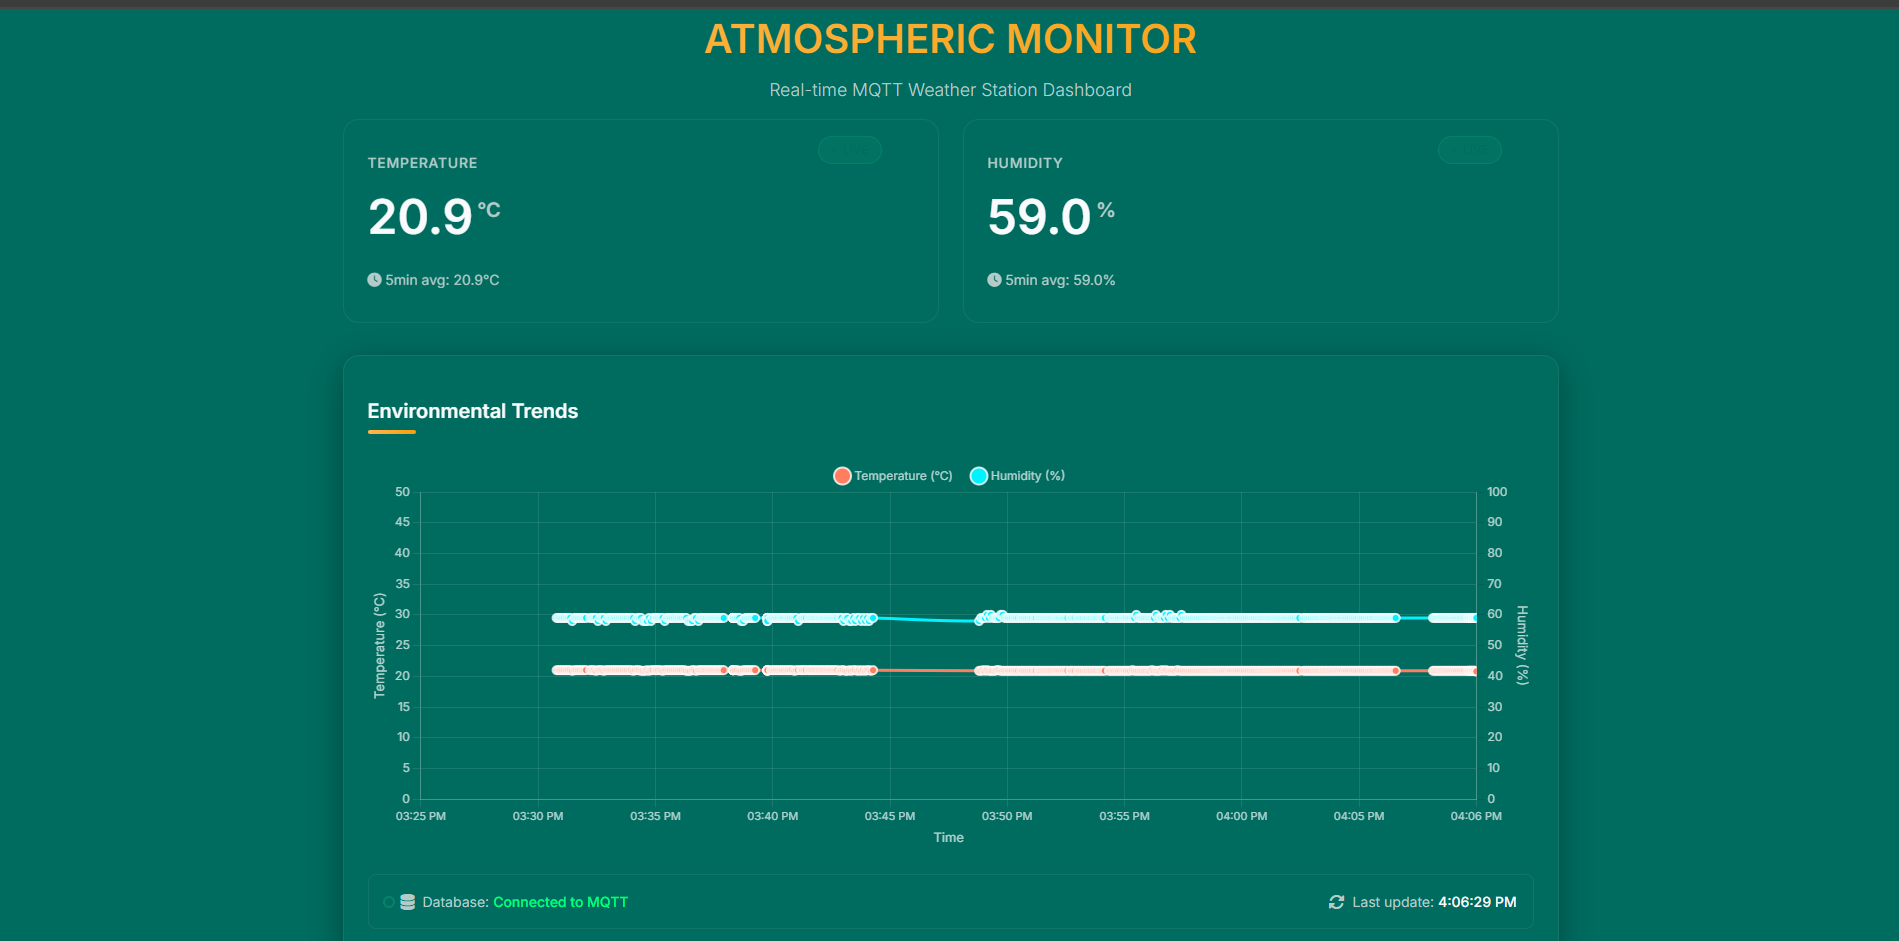
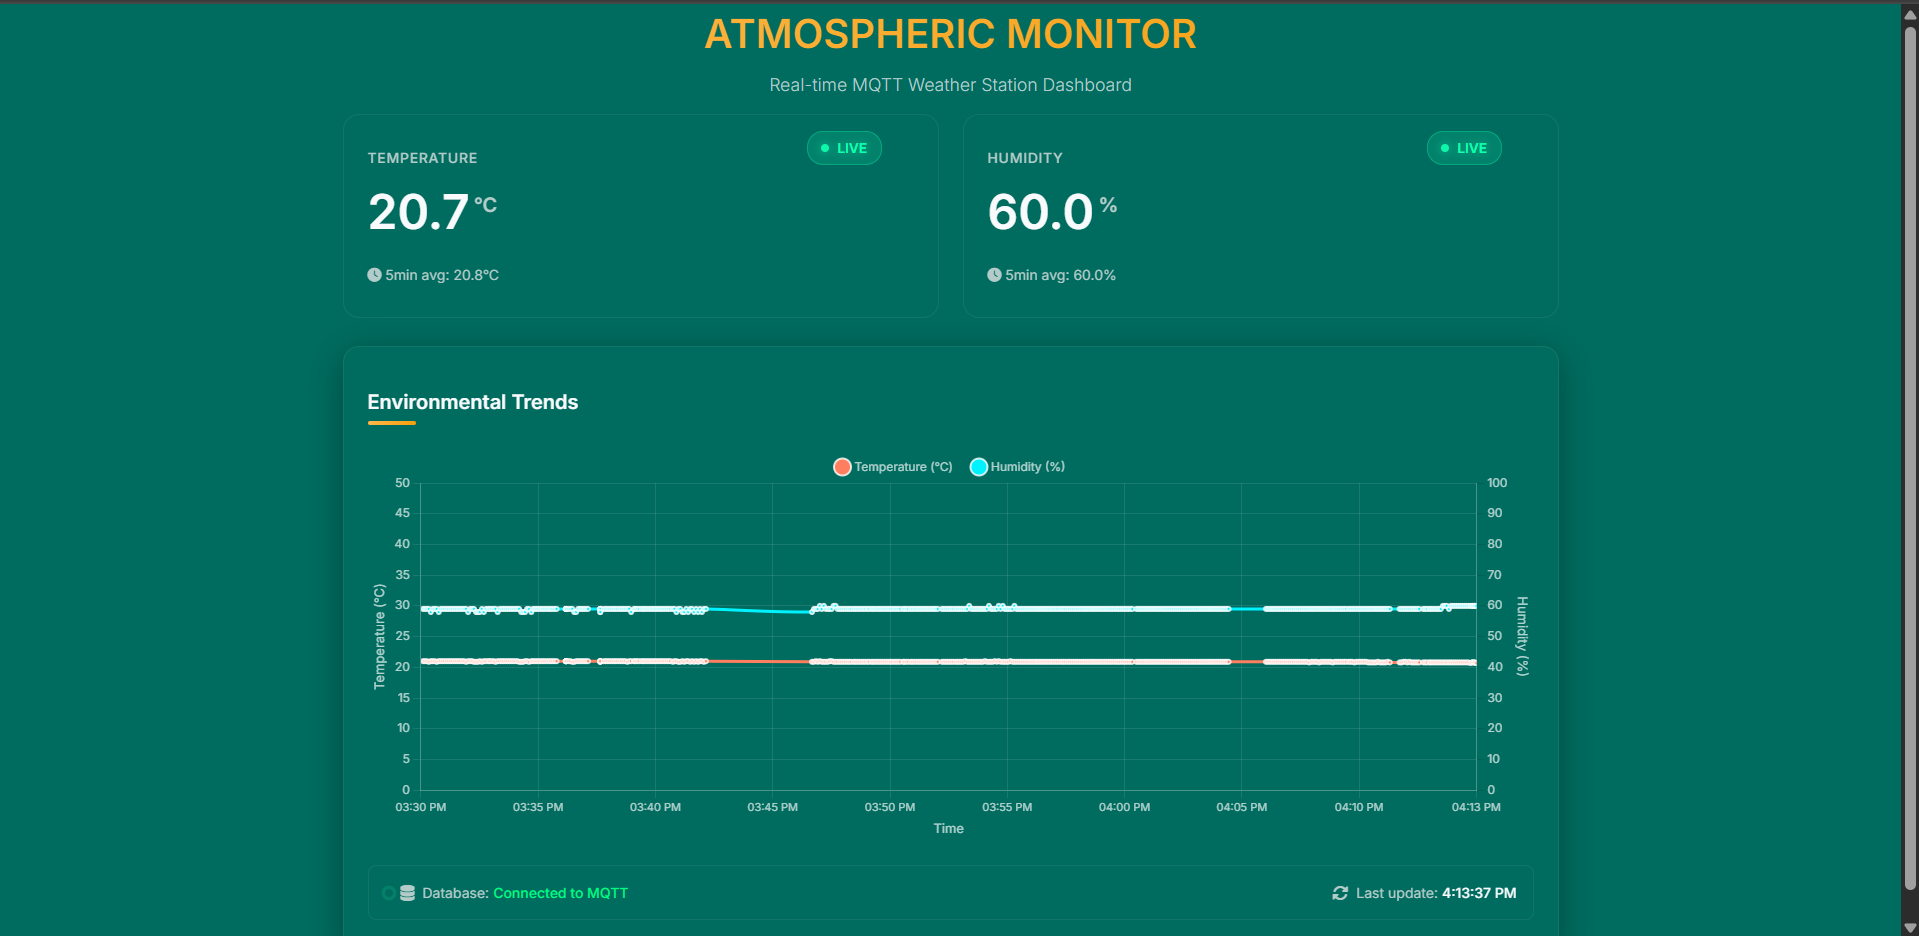
responsiveness

diff --git a/public/index.html b/public/index.html
@@ -40,7 +40,7 @@
         }
 
         .dashboard {
-            max-width: 1280px;
+            max-width: 70%;
             margin: 0 auto;
             padding: 0 2rem;
         }
@@ -222,23 +222,26 @@
         .live-indicator {
             display: inline-flex;
             align-items: center;
-            color: var(--secondary-color);
-            font-size: 0.75rem;
+            color: #10FFB0;
+            font-size: 0.85rem;
+            font-weight: 600;
             position: absolute;
             top: 1rem;
             right: 3.5rem;
-            background: rgba(16, 185, 129, 0.1);
-            padding: 0.25rem 0.75rem;
+            background: rgba(16, 255, 176, 0.15);
+            padding: 0.35rem 0.85rem;
             border-radius: 1rem;
-            border: 1px solid rgba(16, 185, 129, 0.2);
+            border: 1px solid rgba(16, 255, 176, 0.3);
+            text-shadow: 0 0 10px rgba(16, 255, 176, 0.5);
         }
 
         .live-dot {
-            width: 0.375rem;
-            height: 0.375rem;
-            background-color: var(--secondary-color);
+            width: 0.5rem;
+            height: 0.5rem;
+            background-color: #10FFB0;
             border-radius: 50%;
-            margin-right: 0.375rem;
+            margin-right: 0.5rem;
+            box-shadow: 0 0 10px rgba(16, 255, 176, 0.7);
             animation: blink 1.5s ease-in-out infinite;
         }
 
@@ -250,8 +253,22 @@
 
         @keyframes blink {
             0% { opacity: 1; }
-            50% { opacity: 0.4; }
+            50% { opacity: 0.3; }
             100% { opacity: 1; }
+        }
+
+        @media (max-width: 1024px) {
+            .dashboard {
+                padding: 1.5rem;
+            }
+
+            .metrics-container {
+                gap: 1.25rem;
+            }
+
+            .chart-container {
+                height: 350px;
+            }
         }
 
         @media (max-width: 768px) {
@@ -267,6 +284,19 @@
                 font-size: 2rem;
             }
 
+            .title-section p {
+                font-size: 1rem;
+            }
+
+            .metrics-container {
+                grid-template-columns: 1fr;
+                gap: 1rem;
+            }
+
+            .metric-card {
+                padding: 1.5rem 1.25rem;
+            }
+
             .metric-value {
                 font-size: 2.5rem;
             }
@@ -278,24 +308,95 @@
             .status-section {
                 flex-direction: column;
                 gap: 1rem;
+                padding: 0.75rem;
             }
 
-            .metrics-container {
-                grid-template-columns: 1fr;
+            .live-indicator {
+                top: 0.75rem;
+                right: 0.75rem;
+                font-size: 0.75rem;
+                padding: 0.25rem 0.65rem;
+            }
+
+            .glass-panel {
+                padding: 1.25rem;
+            }
+
+            .section-title {
+                font-size: 1.1rem;
+                margin-bottom: 1.25rem;
             }
         }
 
         @media (max-width: 480px) {
+            .dashboard {
+                padding: 0.75rem;
+            }
+
             .title-section h1 {
                 font-size: 1.75rem;
+            }
+
+            .title-section p {
+                font-size: 0.9rem;
             }
 
             .metric-value {
                 font-size: 2rem;
             }
 
+            .metric-unit {
+                font-size: 1rem;
+            }
+
+            .metric-average {
+                font-size: 0.8rem;
+            }
+
             .chart-container {
                 height: 250px;
+            }
+
+            .glass-panel {
+                padding: 1rem;
+            }
+
+            .status-section {
+                padding: 0.5rem;
+                font-size: 0.85rem;
+            }
+
+            .status-item {
+                gap: 0.5rem;
+            }
+
+            .live-indicator {
+                padding: 0.2rem 0.5rem;
+                font-size: 0.7rem;
+            }
+
+            .live-dot {
+                width: 0.4rem;
+                height: 0.4rem;
+                margin-right: 0.35rem;
+            }
+        }
+
+        @media (max-width: 360px) {
+            .title-section h1 {
+                font-size: 1.5rem;
+            }
+
+            .metric-value {
+                font-size: 1.75rem;
+            }
+
+            .chart-container {
+                height: 200px;
+            }
+
+            .status-section {
+                font-size: 0.8rem;
             }
         }
     </style>
@@ -374,8 +475,8 @@
                         pointBackgroundColor: '#ff7e5f',
                         pointBorderColor: 'rgba(255, 255, 255, 0.8)',
                         pointBorderWidth: 2,
-                        pointRadius: 4,
-                        pointHoverRadius: 6,
+                        pointRadius: 2,
+                        pointHoverRadius: 4,
                         tension: 0.4,
                         data: [],
                         yAxisID: 'y'
@@ -388,8 +489,8 @@
                         pointBackgroundColor: '#00f2fe',
                         pointBorderColor: 'rgba(255, 255, 255, 0.8)',
                         pointBorderWidth: 2,
-                        pointRadius: 4,
-                        pointHoverRadius: 6,
+                        pointRadius: 2,
+                        pointHoverRadius: 4,
                         tension: 0.4,
                         data: [],
                         yAxisID: 'y1'
